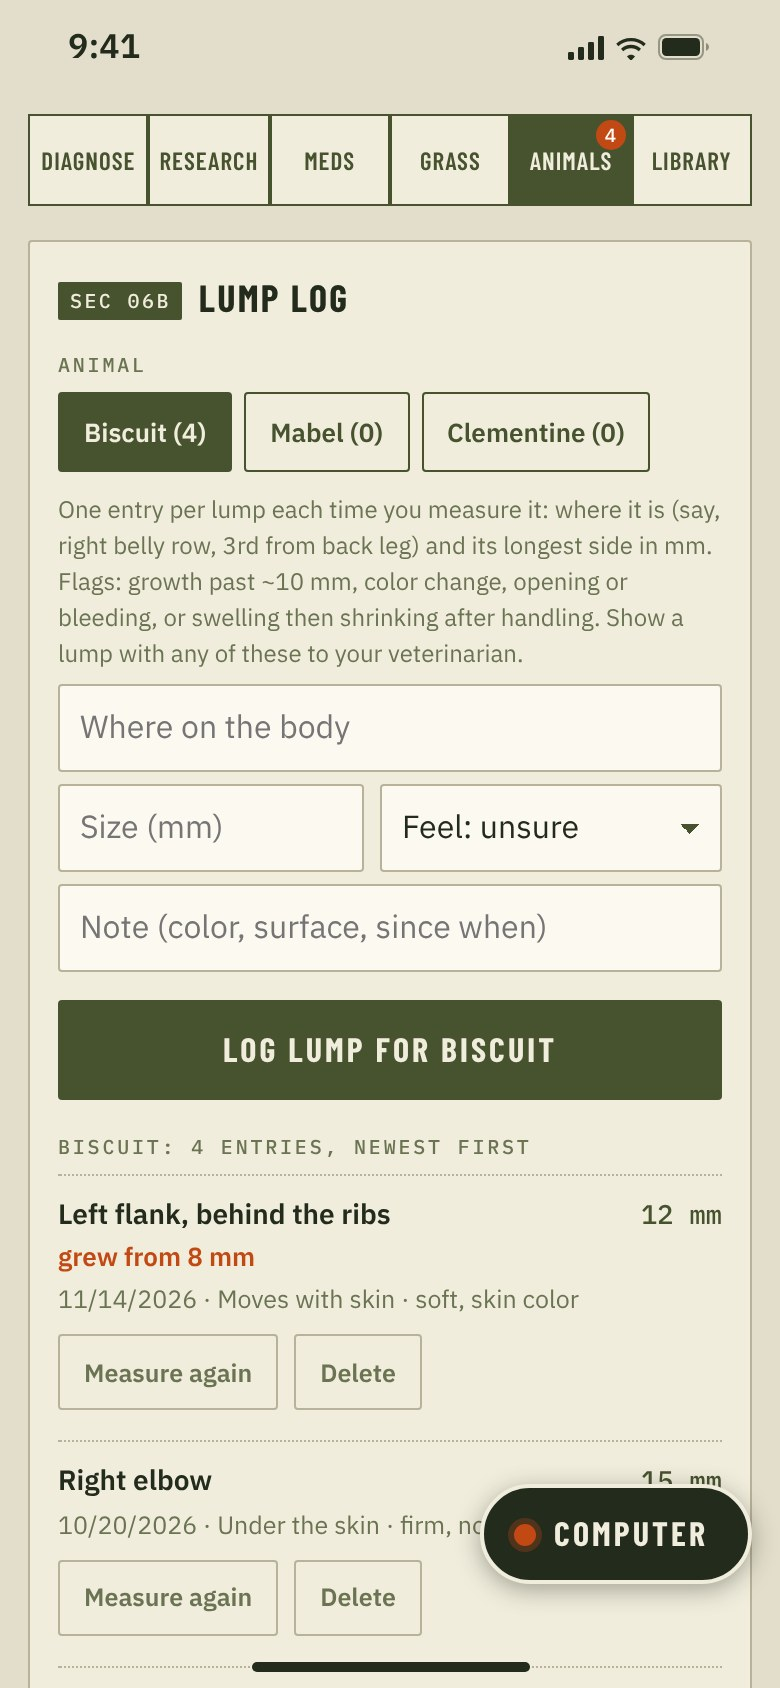
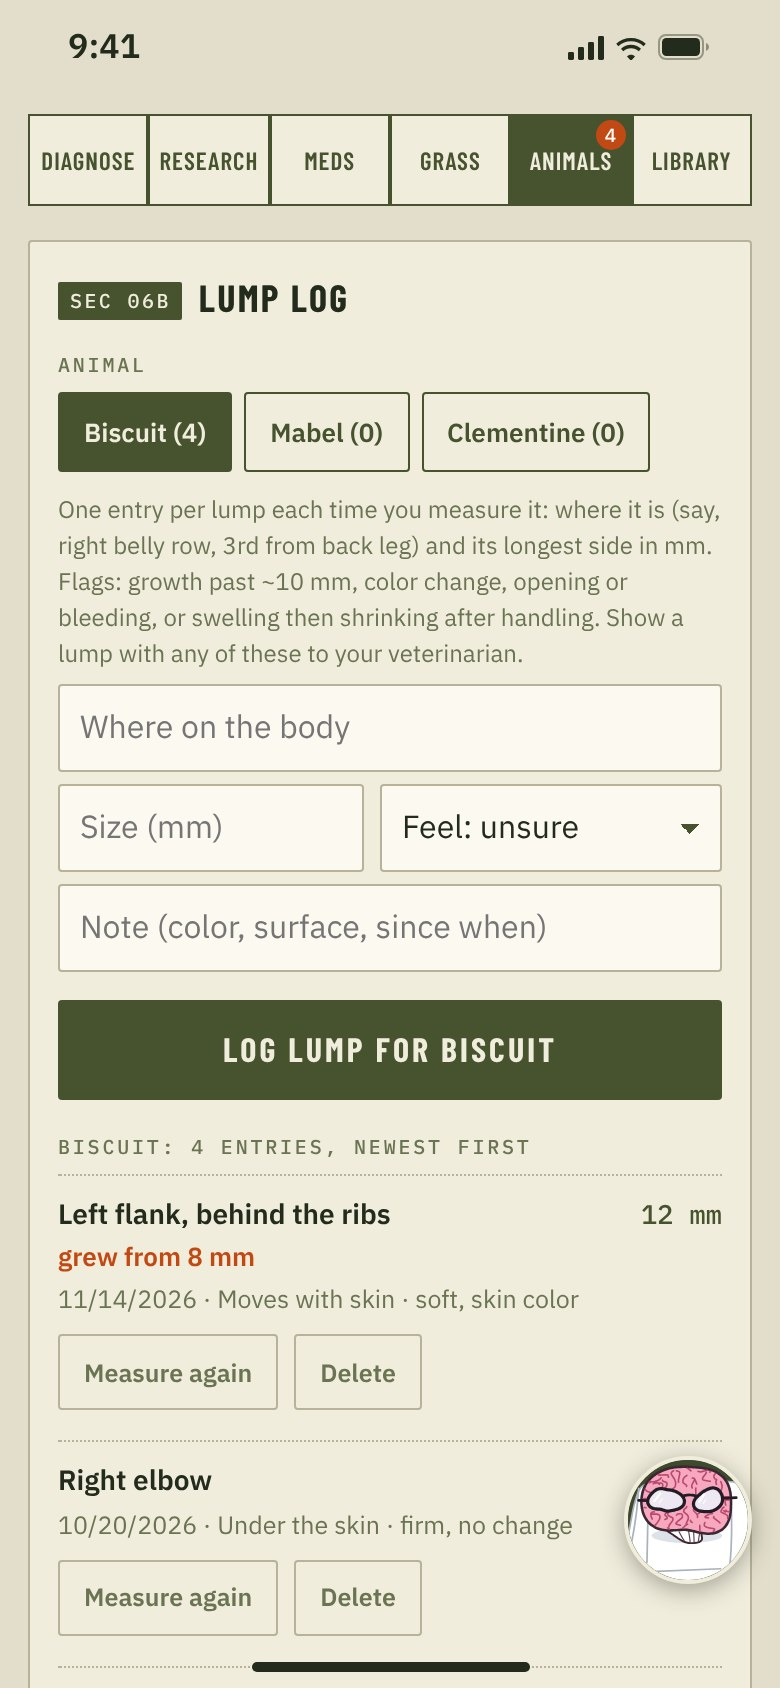
Rooststead: Privacy Policy and Support name the new Settings places (Privacy & data); About screenshots show Unlock Pro
Claude-Session: https://claude.ai/code/session_01VwhTu4TAXe9SwxV6jSjeAQ

Changed region(s): [[0.6154, 0.8626, 0.9846, 0.955]]

diff --git a/rooststead/privacy/index.html b/rooststead/privacy/index.html
@@ -94,7 +94,7 @@
     <li><strong>The country, or the US state</strong>, the request came from. Our server reads this from a note its host (Cloudflare) puts on each request. It is worked out from your internet address. The address itself is not kept.</li>
   </ul>
   <p>These are counts by day and by week. They are not tied to your install, your subscription or your internet address, and they are deleted after 400 days. We also count how many lookups failed and how many were stopped because the free lookups were used up.</p>
-  <p><strong>You can turn the tallies off.</strong> In the app open <strong>Settings</strong>, find <strong>Help improve Rooststead</strong> and tap <strong>Turn off</strong>. The server then keeps no tallies for your lookups, and “Did this help?” is not shown.</p>
+  <p><strong>You can turn the tallies off.</strong> In the app open <strong>Settings</strong>, tap <strong>Manage</strong> under <strong>Privacy &amp; data</strong>, and tap <strong>Disable</strong> under <strong>Usage analytics</strong>. The server then keeps no tallies for your lookups, and “Did this help?” is not shown.</p>
 
   <h3>“Did this help?”</h3>
   <p>Under an answer the app asks “Did this help?”. Nothing is sent unless you tap <strong>Yes</strong> or <strong>No</strong>. Your answer is then sent, with the app’s device id (used only for the daily limit above), and counted against that answer’s subject. If you tap No you can pick a reason and add a short note, and you can tick a box to send the question and the answer as text so we can check it. Photos are never sent with feedback, and the app does not include your animal’s name.</p>
@@ -114,7 +114,7 @@
     <li><strong>What is sent and kept:</strong> the photos of that lookup (as the app redrew them, which leaves out the camera details and any location stored in the original), the species, the affected areas, what it turned out to be, who said so (a veterinarian, your own judgment, or not confirmed), and the AI’s best match as a hint. Not your animal’s name, not your notes, not your device id, not your address.</li>
     <li><strong>What for:</strong> to train and test Rooststead’s own photo recognition and to check Rooststead’s answers. Never sold, never shown to other people as photos, never used for advertising.</li>
     <li><strong>How long:</strong> until you delete it, and at most 3 years.</li>
-    <li><strong>Changing or deleting it:</strong> the app keeps a receipt for each donation on your device. In Settings, under <strong>Donated photos</strong>, you can say what it turned out to be, or delete one or all of them from our server. <strong>Erase everything on this device</strong> deletes them from our server first. If you deleted the app before deleting a donation, email us the date and what it showed and we will find and delete it. A model already trained with a photo keeps what it learned from it.</li>
+    <li><strong>Changing or deleting it:</strong> the app keeps a receipt for each donation on your device. In Settings, under <strong>Privacy &amp; data</strong>, <strong>Contributed images</strong>, you can say what it turned out to be, or delete one or all of them from our server. <strong>Erase everything on this device</strong> deletes them from our server first. If you deleted the app before deleting a donation, email us the date and what it showed and we will find and delete it. A model already trained with a photo keeps what it learned from it.</li>
     <li>The app sends its device id with a donation only to limit donations to 10 a day per install; that count is deleted after the day.</li>
   </ul>
 
@@ -146,7 +146,7 @@
   </ul>
 
   <h2>Withdrawing the AI permission</h2>
-  <p>You can take back your agreement to the lookup notice at any time: open Settings in the app and withdraw it there. After that the app sends no lookups until you agree again. Everything that works without a lookup keeps working. Withdrawing does not undo lookups that were already sent.</p>
+  <p>You can take back your agreement to the lookup notice at any time: in the app open Settings, tap Manage under Privacy &amp; data, and tap Revoke under Data processing consent. After that the app sends no lookups until you agree again. Everything that works without a lookup keeps working. Withdrawing does not undo lookups that were already sent.</p>
   <p>You can also turn AI lookups off: open Settings in the app, find <strong>AI lookups</strong> and tap <strong>Turn off</strong>. Then the app sends no lookups at all, and its answers come from a guide written into the app and stored on your device. The same guide answers when a lookup cannot be made, for example with no connection; nothing is sent for those answers.</p>
 
   <h2>Security</h2>

diff --git a/rooststead/support/index.html b/rooststead/support/index.html
@@ -15,7 +15,7 @@
   <nav class="links" aria-label="Pages"><a href="../">About</a><a href="../support/" aria-current="page">Support</a><a href="../privacy/">Privacy</a><a href="../terms/">Terms</a></nav>
 
   <h1>Support</h1>
-  <p class="date">Last updated November 22, 2026</p>
+  <p class="date">Last updated November 23, 2026</p>
   <p>We read every message and usually reply within two business days.</p>
   <a class="mail" href="mailto:angeltechcorporationindustries@gmail.com?subject=Rooststead%20support">Email support</a>
   <p>Or write to <a href="mailto:angeltechcorporationindustries@gmail.com">angeltechcorporationindustries<wbr>@gmail.com</a>. When something looks wrong, a screenshot and the kind of lookup you ran help us find it quickly.</p>
@@ -95,13 +95,13 @@
     <p>Open Settings in the app and tap <strong>Erase everything on this device</strong>. This removes your animals, the lump log, the library and the rest of your saved records from the device. It cannot be undone, so make a backup first if you may want them back. It does not cancel a subscription.</p>
 
     <h3>What does Rooststead count, and can I turn it off?</h3>
-    <p>To make the answers better, our server keeps counts of what is looked up: the kind of lookup, the species, the subject in a few words (such as “ear yeast” or “terbinafine”) and the country or US state the request came from. It never keeps what you typed, your photos or the answers, and the counts are tied to no one. To turn them off, open <strong>Settings</strong>, find <strong>Help improve Rooststead</strong> and tap <strong>Turn off</strong>. The <a href="../privacy/">Privacy Policy</a> has the details.</p>
+    <p>To make the answers better, our server keeps counts of what is looked up: the kind of lookup, the species, the subject in a few words (such as “ear yeast” or “terbinafine”) and the country or US state the request came from. It never keeps what you typed, your photos or the answers, and the counts are tied to no one. To turn them off, open <strong>Settings</strong>, tap <strong>Manage</strong> under <strong>Privacy &amp; data</strong>, and tap <strong>Disable</strong> under <strong>Usage analytics</strong>. The <a href="../privacy/">Privacy Policy</a> has the details.</p>
 
     <h3>What is “Did this help?”</h3>
     <p>It is how you tell us whether an answer was useful. Tap <strong>Yes</strong> or <strong>No</strong> under an answer. If you tap No, you can say why, add a short note, and tick a box to send us the question and the answer so we can check it. Nothing is sent unless you tap, and photos are never sent with it. We read what comes in and use it to correct the answers.</p>
 
     <h3>How do I withdraw the AI permission?</h3>
-    <p>Before your first lookup, the app shows what will be sent and asks you to agree. To take that agreement back, open Settings in the app and withdraw it there. The app then sends no lookups until you agree again. Your records keep working. The <a href="../privacy/">Privacy Policy</a> says what a lookup sends and to whom.</p>
+    <p>Before your first lookup, the app shows what will be sent and asks you to agree. To take that agreement back, open Settings in the app, tap Manage under Privacy &amp; data, and tap Revoke under Data processing consent. The app then sends no lookups until you agree again. Your records keep working. The <a href="../privacy/">Privacy Policy</a> says what a lookup sends and to whom.</p>
   </div>
 
   <footer class="angeltech">
